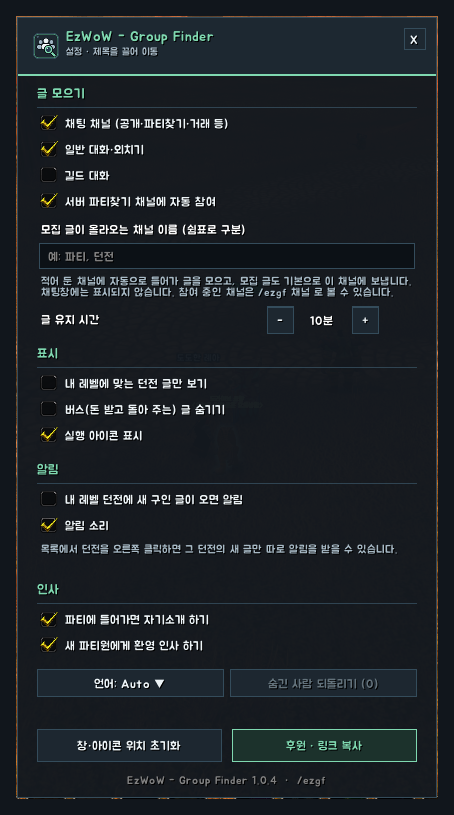
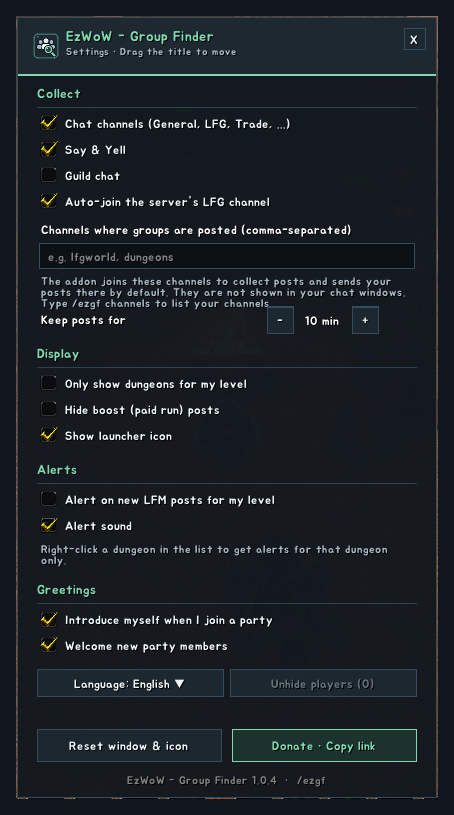
영어 설명용 게임 화면 추가

diff --git a/README.md b/README.md
@@ -57,7 +57,7 @@ Collects group posts from chat by dungeon and helps you write and send your own.
 
 ![Settings window](https://raw.githubusercontent.com/qqhrqqhr2/EzWoW-GroupFinder/master/docs/images/settings_en.png)
 
-> In-game screenshots (WoW Forever, Korean client). Character and player names and chat text are blurred.
+> In-game screenshots with the addon set to English. The game client is Korean, so game text such as zone, item and spell names stays Korean. Character and player names and chat text are blurred.
 
 ### Find Group
 - Collects group posts from chat channels (General, LFG, Trade, ...), Say/Yell and, optionally, guild chat.

diff --git a/docs/curseforge_description.md b/docs/curseforge_description.md
@@ -13,7 +13,7 @@ A group finder for WoW Forever. It collects the group posts people write in chat
 
 ![Settings window](https://raw.githubusercontent.com/qqhrqqhr2/EzWoW-GroupFinder/master/docs/images/settings_en.png)
 
-*In-game screenshots (WoW Forever, Korean client). Character and player names and chat text are blurred.*
+*In-game screenshots with the addon set to English. The game client is Korean, so game text such as zone, item and spell names stays Korean. Character and player names and chat text are blurred.*
 
 ## Features
 
